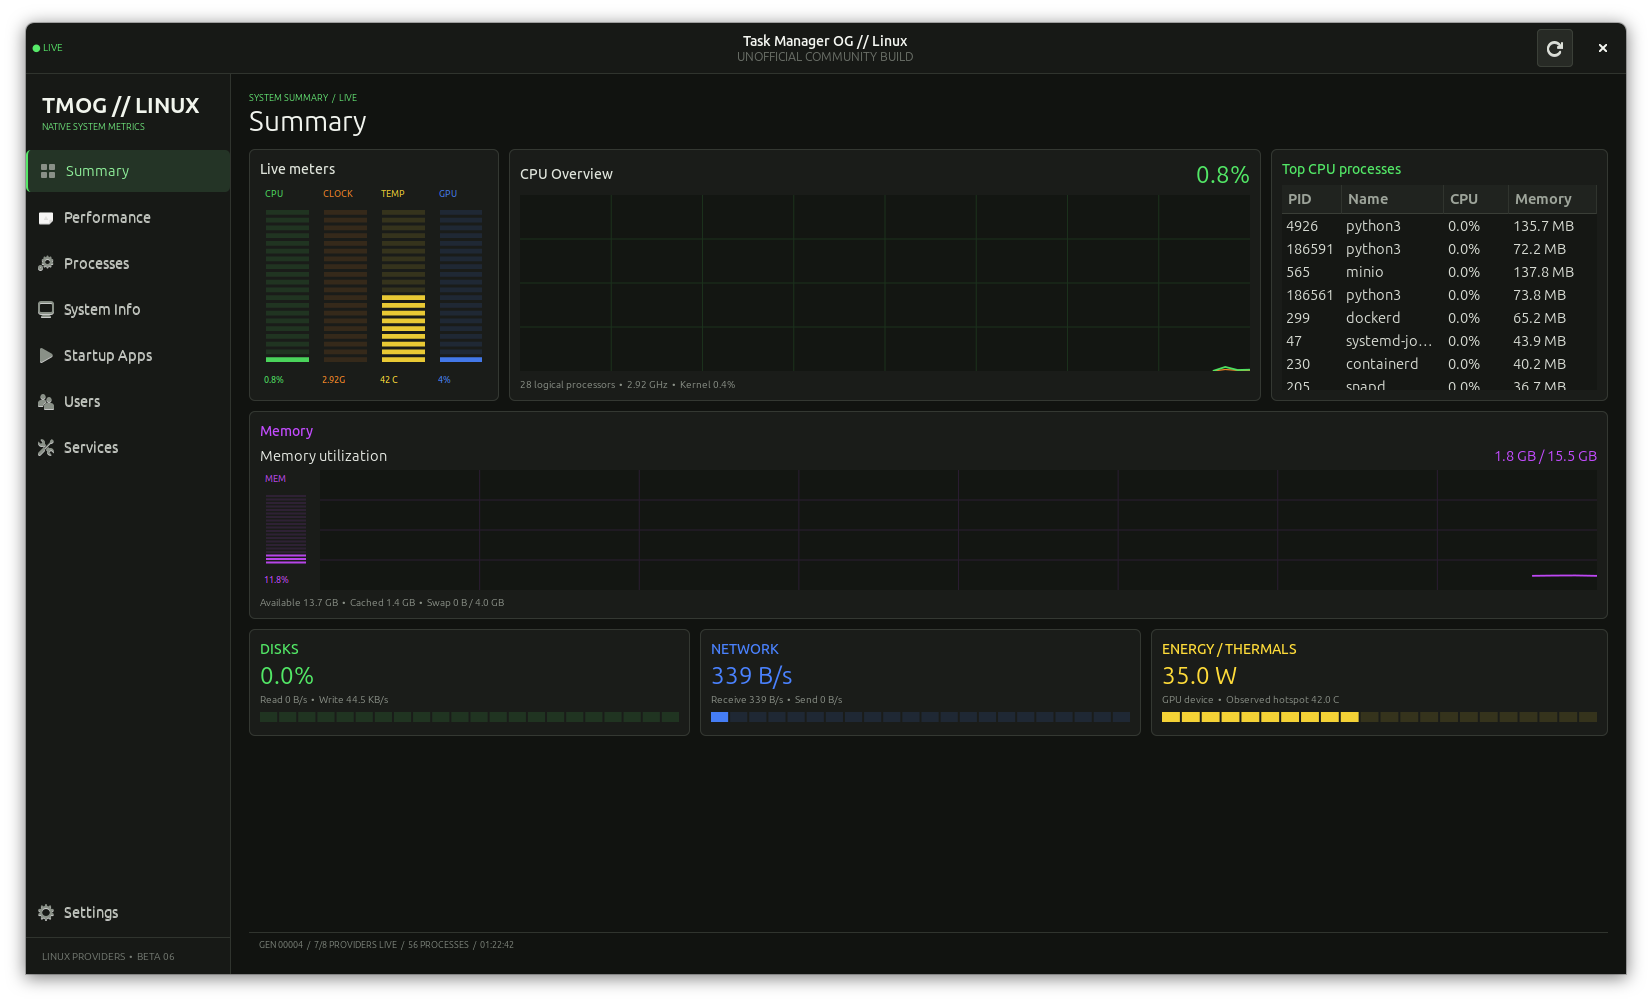
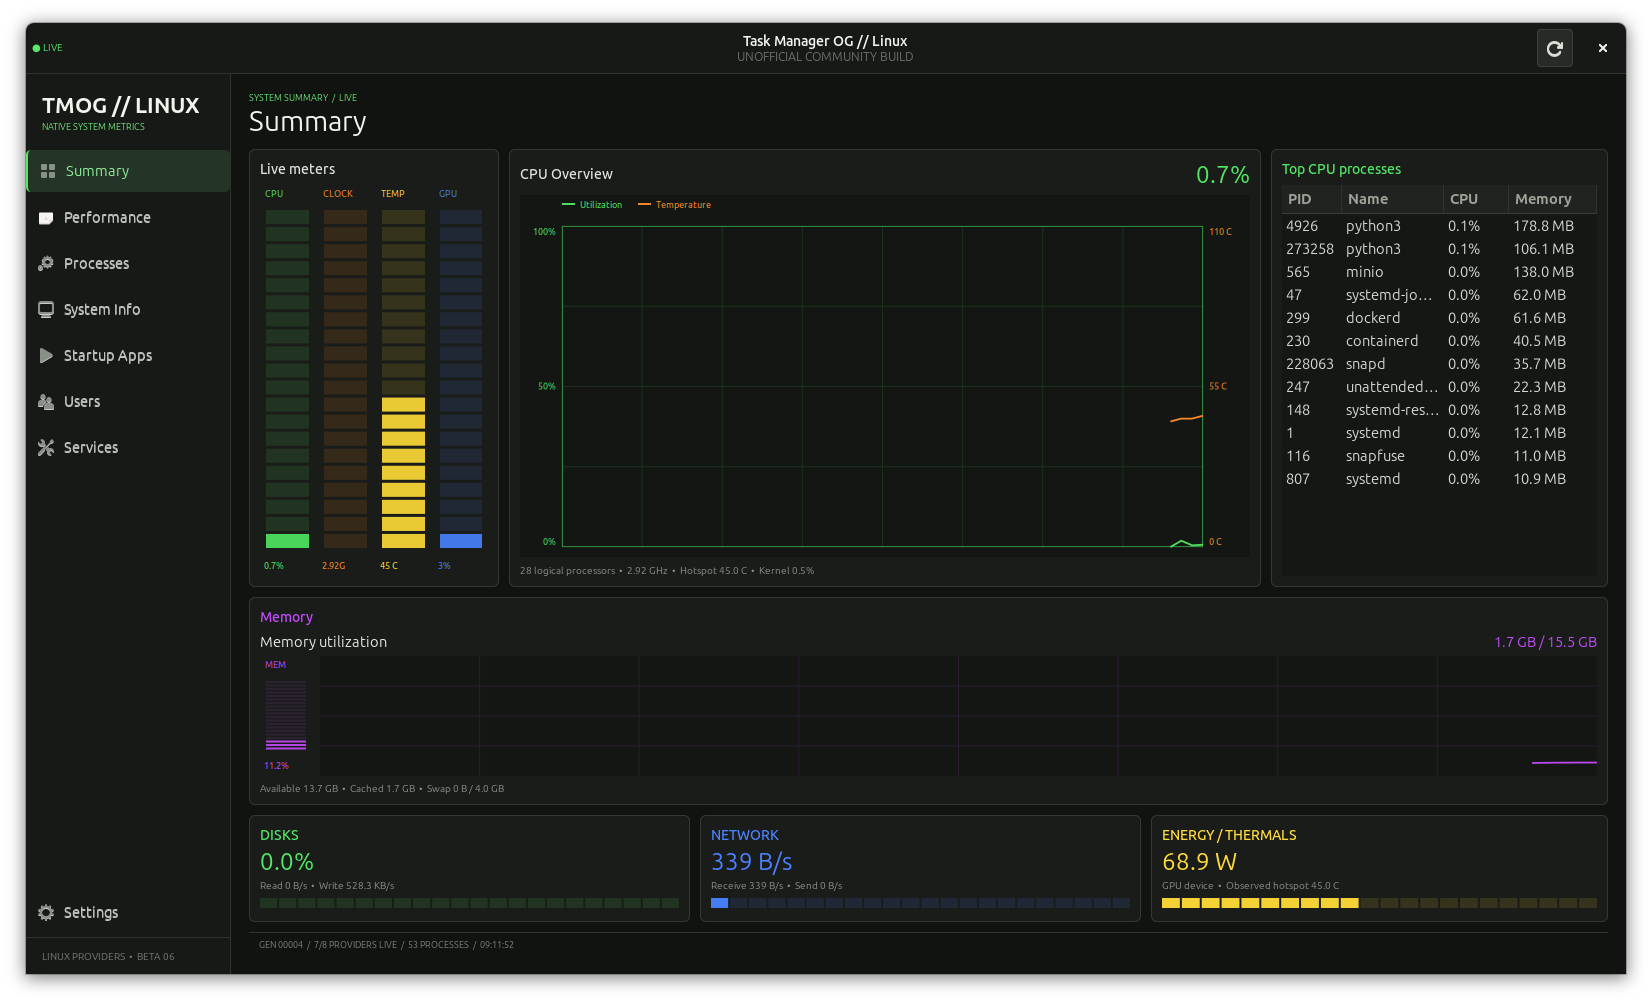
Release beta06.4-r4: add responsive Summary dual-axis charts

diff --git a/tmog_linux/app.py b/tmog_linux/app.py
@@ -289,6 +289,12 @@ def graph_maximum(values, fixed_max: float | None) -> float:
     return max(1.0, max(values, default=0.0) * 1.15)
 
 
+def graph_fraction(value: float, maximum: float) -> float:
+    if maximum <= 0:
+        return 0.0
+    return max(0.0, min(1.0, value / maximum))
+
+
 class HistoryGraph(Gtk.DrawingArea):
     def __init__(self, color: str, max_points: int = 60, fixed_max: float | None = 100.0) -> None:
         super().__init__()
@@ -321,7 +327,7 @@ class HistoryGraph(Gtk.DrawingArea):
         context.set_line_width(width)
         for index, value in enumerate(points):
             x = w - (len(points) - 1 - index) * step
-            y = h - min(1.0, value / maximum) * h
+            y = h - graph_fraction(value, maximum) * h
             context.move_to(x, y) if index == 0 else context.line_to(x, y)
         context.stroke()
 
@@ -345,6 +351,145 @@ class HistoryGraph(Gtk.DrawingArea):
         maximum = graph_maximum(observed, self.fixed_max)
         self._line(context, self.secondary, self.secondary_color, 1.2, maximum, width, height)
         self._line(context, self.primary, self.color, 1.8, maximum, width, height)
+        return False
+
+
+class DualAxisHistoryGraph(Gtk.DrawingArea):
+    def __init__(
+        self,
+        primary_label: str,
+        secondary_label: str,
+        primary_max: float = 100.0,
+        secondary_max: float = 110.0,
+        max_points: int = 60,
+    ) -> None:
+        super().__init__()
+        self.primary_label = primary_label
+        self.secondary_label = secondary_label
+        self.primary_max = primary_max
+        self.secondary_max = secondary_max
+        self.primary_color = COLORS["green"]
+        self.secondary_color = COLORS["orange"]
+        self.primary: deque[float] = deque(maxlen=max_points)
+        self.secondary: deque[float] = deque(maxlen=max_points)
+        self.set_size_request(360, 245)
+        self.get_style_context().add_class("history-graph")
+        self.connect("draw", self._draw)
+
+    def add(self, primary: float, secondary: float | None = None) -> None:
+        self.primary.append(max(0.0, primary))
+        if secondary is not None:
+            self.secondary.append(max(0.0, secondary))
+        self.queue_draw()
+
+    def clear(self) -> None:
+        self.primary.clear()
+        self.secondary.clear()
+        self.queue_draw()
+
+    @staticmethod
+    def _text_width(context, text: str) -> float:
+        extents = context.text_extents(text)
+        return extents.width if hasattr(extents, "width") else extents[2]
+
+    def _line(
+        self,
+        context,
+        values: deque[float],
+        color,
+        maximum: float,
+        x: float,
+        y: float,
+        width: float,
+        height: float,
+    ) -> None:
+        if not values:
+            return
+        points = list(values)
+        step = width / max(1, values.maxlen - 1)
+        context.set_source_rgba(*rgba(color, 0.96))
+        context.set_line_width(1.8)
+        for index, value in enumerate(points):
+            point_x = x + width - (len(points) - 1 - index) * step
+            point_y = y + height - graph_fraction(value, maximum) * height
+            context.move_to(point_x, point_y) if index == 0 else context.line_to(point_x, point_y)
+        context.stroke()
+
+    def _draw(self, _widget, context) -> bool:
+        allocation = self.get_allocation()
+        width, height = allocation.width, allocation.height
+        context.set_source_rgb(*style_rgb(self, background=True))
+        context.paint()
+
+        left, right, top, bottom = 42.0, 47.0, 31.0, 10.0
+        plot_width = max(1.0, width - left - right)
+        plot_height = max(1.0, height - top - bottom)
+
+        context.select_font_face("Ubuntu", 0, 0)
+        context.set_font_size(9)
+        context.set_source_rgba(*rgba(self.primary_color, 0.95))
+        context.rectangle(left, 8, 13, 2)
+        context.fill()
+        context.move_to(left + 18, 13)
+        context.show_text(self.primary_label)
+
+        primary_legend_width = self._text_width(context, self.primary_label)
+        secondary_x = left + 34 + primary_legend_width
+        context.set_source_rgba(*rgba(self.secondary_color, 0.95))
+        context.rectangle(secondary_x, 8, 13, 2)
+        context.fill()
+        context.move_to(secondary_x + 18, 13)
+        context.show_text(self.secondary_label)
+
+        context.set_line_width(1)
+        context.set_source_rgba(*rgba(self.primary_color, theme_alpha(self, 0.13, 0.22)))
+        for index in range(9):
+            x = left + index * plot_width / 8
+            context.move_to(x, top)
+            context.line_to(x, top + plot_height)
+        for index in range(5):
+            y = top + index * plot_height / 4
+            context.move_to(left, y)
+            context.line_to(left + plot_width, y)
+        context.stroke()
+
+        context.set_source_rgba(*rgba(self.primary_color, theme_alpha(self, 0.5, 0.72)))
+        context.rectangle(left + 0.5, top + 0.5, max(1.0, plot_width - 1), max(1.0, plot_height - 1))
+        context.stroke()
+
+        for fraction, primary_text, secondary_text in (
+            (0.0, "100%", "110 C"),
+            (0.5, "50%", "55 C"),
+            (1.0, "0%", "0 C"),
+        ):
+            label_y = top + fraction * plot_height + (9 if fraction == 0.0 else 3 if fraction == 0.5 else -2)
+            context.set_source_rgba(*rgba(self.primary_color, 0.9))
+            context.move_to(left - 6 - self._text_width(context, primary_text), label_y)
+            context.show_text(primary_text)
+            context.set_source_rgba(*rgba(self.secondary_color, 0.9))
+            context.move_to(left + plot_width + 6, label_y)
+            context.show_text(secondary_text)
+
+        self._line(
+            context,
+            self.secondary,
+            self.secondary_color,
+            self.secondary_max,
+            left,
+            top,
+            plot_width,
+            plot_height,
+        )
+        self._line(
+            context,
+            self.primary,
+            self.primary_color,
+            self.primary_max,
+            left,
+            top,
+            plot_width,
+            plot_height,
+        )
         return False
 
 
@@ -933,6 +1078,8 @@ class TmogWindow(Gtk.Window):
     def _build_summary_page(self) -> None:
         page, content = self._page_box("Summary", "SYSTEM SUMMARY  /  LIVE")
         grid = Gtk.Grid(column_spacing=10, row_spacing=10)
+        grid.set_vexpand(True)
+        grid.set_valign(Gtk.Align.FILL)
         content.pack_start(scrollable(grid), True, True, 0)
 
         meters = Gtk.Box(orientation=Gtk.Orientation.HORIZONTAL, spacing=3)
@@ -943,7 +1090,8 @@ class TmogWindow(Gtk.Window):
         for meter in (self.cpu_meter, self.clock_meter, self.temp_meter, self.gpu_meter):
             meters.pack_start(meter, True, True, 0)
         meter_card = card("Live meters", meters)
-        meter_card.set_size_request(250, 245)
+        meter_card.set_size_request(250, 320)
+        meter_card.set_vexpand(True)
         grid.attach(meter_card, 0, 0, 1, 1)
 
         cpu_box = Gtk.Box(orientation=Gtk.Orientation.VERTICAL, spacing=7)
@@ -956,7 +1104,7 @@ class TmogWindow(Gtk.Window):
         cpu_header.pack_start(cpu_title, True, True, 0)
         cpu_header.pack_end(self.cpu_value, False, False, 0)
         cpu_box.pack_start(cpu_header, False, False, 0)
-        self.summary_cpu_graph = HistoryGraph("green")
+        self.summary_cpu_graph = DualAxisHistoryGraph("Utilization", "Temperature")
         cpu_box.pack_start(self.summary_cpu_graph, True, True, 0)
         self.cpu_detail = Gtk.Label(label="Waiting for data", xalign=0)
         self.cpu_detail.get_style_context().add_class("muted")
@@ -965,8 +1113,9 @@ class TmogWindow(Gtk.Window):
         cpu_card = Gtk.Box(orientation=Gtk.Orientation.VERTICAL)
         cpu_card.get_style_context().add_class("card")
         cpu_card.pack_start(cpu_box, True, True, 0)
-        cpu_card.set_size_request(390, 245)
+        cpu_card.set_size_request(390, 320)
         cpu_card.set_hexpand(True)
+        cpu_card.set_vexpand(True)
         grid.attach(cpu_card, 1, 0, 1, 1)
 
         self.top_store = Gtk.ListStore(int, str, float, str)
@@ -977,9 +1126,10 @@ class TmogWindow(Gtk.Window):
         self._add_formatted_column(top_view, "CPU", 2, lambda value: f"{value:.1f}%", 65)
         add_text_column(top_view, "Memory", 3, width=85)
         top_scroll = scrollable(top_view)
-        top_scroll.set_size_request(315, 205)
+        top_scroll.set_size_request(315, 280)
         top_card = card("Top CPU processes", top_scroll, "green")
         top_card.set_size_request(315, -1)
+        top_card.set_vexpand(True)
         grid.attach(top_card, 2, 0, 1, 1)
 
         memory_box = Gtk.Box(orientation=Gtk.Orientation.VERTICAL, spacing=6)
@@ -1535,11 +1685,17 @@ class TmogWindow(Gtk.Window):
         gpu_peak = max(gpu_usages) if gpu_usages else None
         self.gpu_meter.set_value(gpu_peak, "--" if gpu_peak is None else f"{gpu_peak:.0f}%")
         self.cpu_value.set_text(f"{cpu:.1f}%")
+        temperature_detail = (
+            f"Hotspot {observed_temperature:.1f} C"
+            if observed_temperature is not None
+            else "Temperature N/A"
+        )
         self.cpu_detail.set_text(
             f"{len(snapshot.per_cpu_percent)} logical processors  •  "
-            f"{(snapshot.cpu_mhz or 0) / 1000:.2f} GHz  •  Kernel {snapshot.kernel_percent:.1f}%"
+            f"{(snapshot.cpu_mhz or 0) / 1000:.2f} GHz  •  {temperature_detail}  •  "
+            f"Kernel {snapshot.kernel_percent:.1f}%"
         )
-        self.summary_cpu_graph.add(cpu, snapshot.kernel_percent)
+        self.summary_cpu_graph.add(cpu, observed_temperature)
         self.memory_value.set_text(f"{format_bytes(snapshot.memory_used)} / {format_bytes(snapshot.memory_total)}")
         self.memory_detail.set_text(
             f"Available {format_bytes(snapshot.memory_available)}  •  Cached {format_bytes(snapshot.memory_cached)}  •  "

diff --git a/tests/test_appearance.py b/tests/test_appearance.py
@@ -3,7 +3,13 @@ import unittest
 from pathlib import Path
 from tempfile import TemporaryDirectory
 
-from tmog_linux.app import RESOURCE_GRAPH_MAXIMA, graph_maximum, load_theme_preference, save_theme_preference
+from tmog_linux.app import (
+    RESOURCE_GRAPH_MAXIMA,
+    graph_fraction,
+    graph_maximum,
+    load_theme_preference,
+    save_theme_preference,
+)
 
 
 class AppearancePreferenceTests(unittest.TestCase):
@@ -17,6 +23,12 @@ class AppearancePreferenceTests(unittest.TestCase):
 
     def test_adaptive_sparklines_use_main_graph_headroom(self):
         self.assertAlmostEqual(graph_maximum([80.0, 100.0], None), 115.0)
+
+    def test_summary_dual_axes_normalize_independently(self):
+        self.assertAlmostEqual(graph_fraction(46.6, 100.0), 0.466)
+        self.assertAlmostEqual(graph_fraction(55.0, 110.0), 0.5)
+        self.assertEqual(graph_fraction(120.0, 110.0), 1.0)
+        self.assertEqual(graph_fraction(10.0, 0.0), 0.0)
 
     def test_theme_preference_round_trip(self):
         with TemporaryDirectory() as directory:

diff --git a/README.md b/README.md
@@ -52,7 +52,7 @@
 Summary 是启动后的全局状态页，适合快速判断当前瓶颈：
 
 - **Live meters**：并排显示 CPU 利用率、CPU 频率、热点温度和 GPU 利用率。
-- **CPU Overview**：60 秒总体 CPU 与 Kernel 时间历史，右上角显示当前利用率。
+- **CPU Overview**：加高的 60 秒双轴图；左轴显示 `0-100%` CPU 利用率，右轴显示 `0-110 C` 热点温度。
 - **Top CPU processes**：列出当前 CPU 活动最高的进程及其内存占用。
 - **Memory utilization**：显示使用量、总量、可用、缓存与 Swap。
 - **Disks / Network / Energy & Thermals**：底部保留磁盘、网络、功耗和温度的快速状态条。
@@ -60,6 +60,8 @@ Summary 是启动后的全局状态页，适合快速判断当前瓶颈：
 <a href="screenshots/summary-light-latest.png"><img width="100%" src="screenshots/summary-light-latest.png" alt="Summary page with live CPU, memory, disk, network, power and thermal metrics"></a>
 
 深色和浅色模式使用同一套布局与指标；标题栏按钮、侧栏、表格、卡片、滚动条和自绘图表会一起切换，而不是只替换窗口背景。
+
+第一行按照 TMOG 的信息密度加高，Live meters 的分段柱、CPU 双轴历史和 Top CPU processes 会使用相同高度。CPU 图内绿色与橙色曲线分别使用独立纵轴，底部详情同时保留逻辑处理器、频率、热点温度和 Kernel 百分比。
 
 <a href="screenshots/summary-dark-latest.png"><img width="100%" src="screenshots/summary-dark-latest.png" alt="Summary page in dark mode"></a>
 
